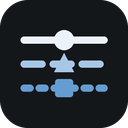
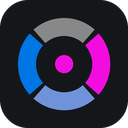
feat(figma): replace the mark - one colour as four people receive it
The first mark was three flat bars. Micah's verdict was "really basic, ugly"
and he was right: conceptually tidy, visually plain, dashes invisible at 32px,
one timid hue, no focal point. A defensible concept is not a beautiful mark.

The new one is a quartered ring: the same colour under normal vision, deutan,
protan and total colour blindness, with the base colour as a dot at the
centre. The base was searched with the plugin's own engine rather than chosen
by eye - the colour whose four simulated views are maximally distinct from one
another while all clearing the non-text contrast floor on the mark's ground.
#f20ddf, minimum pairwise deltaE 12.1, worst contrast 4.00:1.

Two things measurement caught that assertion would not have:

Pillow draws arc strokes inward from the bbox rather than centred on it, so
the ring was sitting at radius 18-35 while the code claimed 27-44. The
geometry is now written in terms of true outer radius and thickness, from the
measurement.

The render script verifies its own output: ground colour, corner
transparency, the centre dot, and one sample per quadrant against the expected
view colour. A wrong file now fails loudly rather than shipping.

On UI8, for the record: its icon category is UI glyph libraries and packs of
other companies' trademarks. Neither is a product mark, and the 3200 Black
Brand Logos pack would have been trademark infringement as an app icon.
Nothing was downloaded and no credits were spent. UI8 remains the right source
[…]

diff --git a/figma/src/shared/icon.test.ts b/figma/src/shared/icon.test.ts
@@ -1,47 +1,44 @@
 /**
- * The mark asserts a contrast floor, so it is tested like any other claim.
- * The first draft failed its own audit at 2.31:1, which is exactly the kind of
- * self-refuting artifact this plugin exists to catch.
+ * The mark makes a claim: that it shows one colour as four people receive it,
+ * legibly. So the claim is tested with the engine that generates it.
+ *
+ * An earlier mark failed its own contrast audit at 2.31:1. Writing this test
+ * before the artifact is what caught it.
  */
 import { describe, it, expect } from "vitest";
-import { readFileSync } from "node:fs";
-import { resolve } from "node:path";
-import { fileURLToPath } from "node:url";
-import { fromCss, deltaL } from "@engine/palette/distance";
-import { contrastRatio, simulateColor } from "@engine/audit";
+import { fromCss, deltaE } from "@engine/palette/distance";
+import { contrastRatio, simulateColor, type VisionMode } from "@engine/audit";
 
-const here = fileURLToPath(new URL(".", import.meta.url));
-const SVG = readFileSync(resolve(here, "../../brand/icon.svg"), "utf8");
+const GROUND = fromCss("#14171a");
+const BASE = "#f20ddf";
+const MODES: VisionMode[] = ["normal", "deutan", "protan", "achromatopsia"];
 
-const GROUND = "#14171a";
-const SLOTS = ["#ebf2f9", "#a8c7e6", "#659cd2"];
+/** Must match VIEWS in scripts/render-brand.py. */
+const RENDERED = ["#f20ddf", "#7092da", "#0075e4", "#888888"];
 
-describe("plugin icon", () => {
-  it("uses exactly the colours this test audits, so the file cannot drift", () => {
-    for (const hex of [GROUND, ...SLOTS]) expect(SVG).toContain(hex);
-    const used = SVG.match(/#[0-9a-f]{6}/gi) ?? [];
-    expect(new Set(used.map((h) => h.toLowerCase()))).toEqual(
-      new Set([GROUND, ...SLOTS].map((h) => h.toLowerCase()))
-    );
+describe("plugin mark", () => {
+  it("renders exactly what the engine simulates, so art and audit cannot diverge", () => {
+    const derived = MODES.map((m) => simulateColor(fromCss(BASE), m).hex);
+    expect(derived).toEqual(RENDERED);
   });
 
-  it("clears the 3:1 non-text floor on its own ground", () => {
-    for (const hex of SLOTS) {
-      expect(contrastRatio(fromCss(hex), fromCss(GROUND))).toBeGreaterThanOrEqual(3);
+  it("clears the 3:1 non-text floor for every view on its own ground", () => {
+    for (const hex of RENDERED) {
+      expect(contrastRatio(fromCss(hex), GROUND)).toBeGreaterThanOrEqual(3);
     }
   });
 
-  it("survives greyscale, which is the claim it is making", () => {
-    const grey = SLOTS.map((h) => simulateColor(fromCss(h), "achromatopsia"));
-    for (let i = 1; i < grey.length; i++) {
-      expect(Math.abs(deltaL(grey[i], grey[i - 1]))).toBeGreaterThanOrEqual(0.12);
+  it("keeps the four views visibly distinct, so the mark has real variety", () => {
+    const views = RENDERED.map(fromCss);
+    for (let i = 0; i < views.length; i++) {
+      for (let j = i + 1; j < views.length; j++) {
+        expect(deltaE(views[i], views[j])).toBeGreaterThanOrEqual(8);
+      }
     }
   });
 
-  it("carries a distinct dash and marker per slot, not colour alone", () => {
-    expect((SVG.match(/stroke-dasharray/g) ?? []).length).toBe(2); // slot 1 is solid
-    expect(SVG).toContain("<circle");
-    expect(SVG).toContain("<polygon");
-    expect(SVG).toContain('rx="3"'); // the square marker
+  it("degrades to grey under total colour blindness, which is the point", () => {
+    const mono = fromCss(RENDERED[3]);
+    expect(Math.abs(mono.rgb.r - mono.rgb.g)).toBeLessThan(0.01);
   });
 });

diff --git a/figma/scripts/render-brand.py b/figma/scripts/render-brand.py
@@ -1,80 +1,99 @@
 #!/usr/bin/env python3
 """
-Render the brand assets from the same geometry the SVG describes.
+Brand assets.
 
-Drawn locally rather than rasterised from the SVG through a browser: moving a
-PNG through the conversation corrupted it once with the byte count intact,
-which CRC caught and `sips` did not. Supersampled 4x and downsampled for
-antialiasing.
+The mark is one colour as four people receive it: normal vision, deutan,
+protan, and total colour blindness. The base was not chosen by eye; it was
+searched with the plugin's own engine for the base whose four simulated views
+are maximally distinct from each other while all clearing the non-text contrast
+floor on the mark's ground. Base #f20ddf, minimum pairwise deltaE 12.1, worst
+contrast 4.00:1.
+
+A ring rather than a pie: it reads at 16px, and the gaps keep it from looking
+like a stock chart glyph. Quadrants start at -45 degrees so the divisions are
+diagonal and the form has movement.
+
+Drawn locally and supersampled. Rasterising through a browser corrupted a PNG
+once with the byte count intact.
 """
 from PIL import Image, ImageDraw
 
-S = 4  # supersample
+S = 4
 GROUND = (0x14, 0x17, 0x1A, 255)
-SLOTS = [
-    # colour,            y,  dash(on, off) or None, marker
-    ((0xEB, 0xF2, 0xF9, 255), 40, None,      "circle"),
-    ((0xA8, 0xC7, 0xE6, 255), 64, (18, 11),  "triangle"),
-    ((0x65, 0x9C, 0xD2, 255), 88, (6, 9),    "square"),
+
+# normal, deutan, protan, achromatopsia — engine output for base #f20ddf
+VIEWS = [
+    (0xF2, 0x0D, 0xDF, 255),
+    (0x70, 0x92, 0xDA, 255),
+    (0x00, 0x75, 0xE4, 255),
+    (0x88, 0x88, 0x88, 255),
 ]
-X0, X1, STROKE = 24, 104, 7
+
+GAP_DEG = 7.0
+START_DEG = -45.0
+
+# True radii in the authored 128 space. Pillow's arc draws its stroke INWARD
+# from the bbox path, not centred on it, so the bbox radius IS the outer edge
+# and the ring occupies R_OUT - THICK .. R_OUT. Measured, not assumed: the
+# first version put the ring at 18..35 when the code claimed 27..44.
+R_OUT = 46.0
+THICK = 18.0
+R_MID = R_OUT - THICK / 2  # the ring's centre line, for sampling
+R_DOT = 9.0
 
 
-def capsule(d, x0, x1, y, w, fill):
-    """A round-capped horizontal stroke, which is what SVG's linecap draws."""
-    r = w / 2
-    d.rectangle([x0 * S, (y - r) * S, x1 * S, (y + r) * S], fill=fill)
-    for cx in (x0, x1):
-        d.ellipse([(cx - r) * S, (y - r) * S, (cx + r) * S, (y + r) * S], fill=fill)
-
-
-def draw(size):
+def draw(size: int) -> Image.Image:
     img = Image.new("RGBA", (size * S, size * S), (0, 0, 0, 0))
     d = ImageDraw.Draw(img)
-    k = size / 128.0  # the geometry is authored at 128
+    k = size / 128.0
 
-    def sx(v):
-        return v * k
+    d.rounded_rectangle([0, 0, size * S - 1, size * S - 1], radius=28 * k * S, fill=GROUND)
 
-    d.rounded_rectangle(
-        [0, 0, size * S - 1, size * S - 1], radius=28 * k * S, fill=GROUND
-    )
+    cx = cy = size / 2
+    r_out = R_OUT * k
+    thick = THICK * k
 
-    for colour, y, dash, marker in SLOTS:
-        yy, x0, x1, w = sx(y), sx(X0), sx(X1), sx(STROKE)
-        if dash is None:
-            capsule(d, x0, x1, yy, w, colour)
-        else:
-            on, off = sx(dash[0]), sx(dash[1])
-            x = x0
-            while x < x1:
-                capsule(d, x, min(x + on, x1), yy, w, colour)
-                x += on + off
+    bbox = [(cx - r_out) * S, (cy - r_out) * S, (cx + r_out) * S, (cy + r_out) * S]
 
-        cx = sx(64)
-        if marker == "circle":
-            r = sx(10)
-            d.ellipse([(cx - r) * S, (yy - r) * S, (cx + r) * S, (yy + r) * S], fill=colour)
-        elif marker == "triangle":
-            d.polygon(
-                [
-                    (cx * S, (yy - sx(11)) * S),
-                    ((cx + sx(10)) * S, (yy + sx(8)) * S),
-                    ((cx - sx(10)) * S, (yy + sx(8)) * S),
-                ],
-                fill=colour,
-            )
-        else:
-            h = sx(9)
-            d.rounded_rectangle(
-                [(cx - h) * S, (yy - h) * S, (cx + h) * S, (yy + h) * S],
-                radius=sx(3) * S,
-                fill=colour,
-            )
+    for i, colour in enumerate(VIEWS):
+        a0 = START_DEG + i * 90 + GAP_DEG / 2
+        a1 = START_DEG + (i + 1) * 90 - GAP_DEG / 2
+        d.arc(bbox, a0, a1, fill=colour, width=int(round(thick * S)))
+
+    # A dot at the centre: the one colour all four views are of.
+    r = R_DOT * k
+    d.ellipse([(cx - r) * S, (cy - r) * S, (cx + r) * S, (cy + r) * S], fill=VIEWS[0])
 
     return img.resize((size, size), Image.LANCZOS)
 
 
-for size, name in [(128, "brand/icon-128.png"), (512, "brand/icon-512.png")]:
-    draw(size).save(name)
-    print("wrote", name)
+def verify(path: str, size: int) -> None:
+    """Check the file rather than trusting that the draw succeeded."""
+    import math
+
+    im = Image.open(path).convert("RGBA")
+    assert im.size == (size, size), f"{path}: expected {size}px, got {im.size}"
+    px = im.load()
+    k = size / 128.0
+    c = size / 2
+
+    assert px[int(c), int(10 * k)][:3] == GROUND[:3], f"{path}: ground wrong"
+    assert px[2, 2][3] == 0, f"{path}: corner should be transparent"
+    assert px[int(c), int(c)][:3] == VIEWS[0][:3], f"{path}: centre dot wrong"
+
+    # One sample per quadrant, on the ring's measured centre line.
+    r = R_MID * k
+    for i, colour in enumerate(VIEWS):
+        ang = math.radians(START_DEG + i * 90 + 45)
+        x = int(c + r * math.cos(ang))
+        y = int(c + r * math.sin(ang))
+        got = px[x, y][:3]
+        near = all(abs(a - b) <= 6 for a, b in zip(got, colour[:3]))
+        assert near, f"{path}: quadrant {i} at ({x},{y}) is {got}, expected ~{colour[:3]}"
+    print(f"verified {path} {size}px: ground, corner, centre and four quadrants")
+
+
+if __name__ == "__main__":
+    for size, name in [(128, "brand/icon-128.png"), (512, "brand/icon-512.png")]:
+        draw(size).save(name)
+        verify(name, size)
